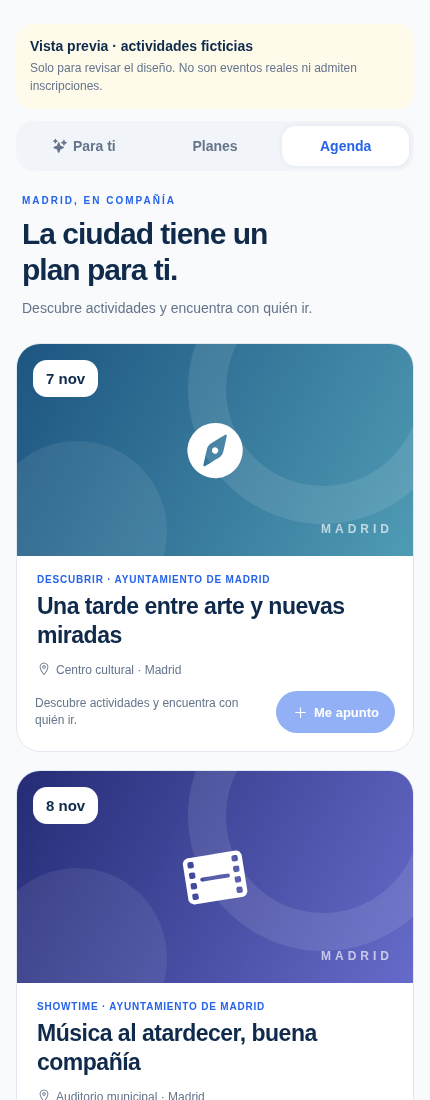
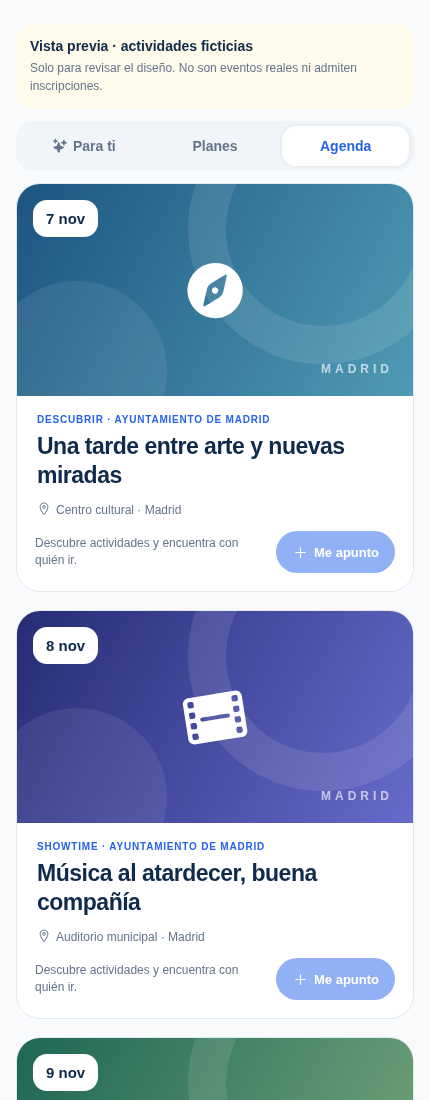
Remove introductory copy before feed cards

diff --git a/app/(tabs)/index.tsx b/app/(tabs)/index.tsx
@@ -162,7 +162,7 @@ import { useDelayedVisible } from '../../lib/useDelayedVisible';
 import { prefetchUserProfile, seedUserProfilePeek } from '../../lib/userProfileCache';
 import { prefetchPairAffinity } from '../../lib/pairAffinityCache';
 import { theme } from '../../theme';
-import { EventCard, EventTabs, AgendaIntro } from '../../features/events/EventCards';
+import { EventCard, EventTabs } from '../../features/events/EventCards';
 import { useEvents } from '../../features/events/useEvents';
 import { rankExternalEvents, interleaveSocialRows } from '../../features/events/ranking';
 import type { EventSection, ExternalEvent, EventFilters } from '../../features/events/types';
@@ -1918,7 +1918,6 @@ export default function HomeScreen() {
                     drawDistance={FLASH_LIST_DRAW_DISTANCE}
                     ListHeaderComponent={
                         <View style={styles.feedChromeHeader}>
-                            {eventSection==='agenda'&&<AgendaIntro/>}
                             {eventSection!=='plans'&&external.error&&<Pressable onPress={()=>void external.refresh()} style={{padding:16}} accessibilityRole="button"><Text style={{color:colors.textMuted}}>{t('events.unavailable')} · {t('events.retry')}</Text></Pressable>}
                             <View style={styles.quickFiltersRow}>
                                 <PressScale

diff --git a/features/events/EventCards.tsx b/features/events/EventCards.tsx
@@ -229,23 +229,6 @@ export function EventTabs({
     </View>
   );
 }
-export function AgendaIntro() {
-  const { t } = useT();
-  const { colors } = useAppTheme();
-  return (
-    <View style={s.intro}>
-      <Text style={[s.eyebrow, { color: colors.primary }]}>
-        {t("events.eyebrow")}
-      </Text>
-      <Text style={[s.headline, { color: colors.text }]}>
-        {t("events.headline")}
-      </Text>
-      <Text style={[s.subtitle, { color: colors.textMuted }]}>
-        {t("events.subtitle")}
-      </Text>
-    </View>
-  );
-}
 export const eventStyles = safeStyles();
 function safeStyles() {
   return StyleSheet.create({

diff --git a/preview/events/index.tsx b/preview/events/index.tsx
@@ -8,7 +8,6 @@ import { useAppTheme } from "../../lib/appTheme";
 import {
   EventCard,
   EventTabs,
-  AgendaIntro,
 } from "../../features/events/EventCards";
 import { previewEvents } from "../../features/events/previewData";
 import type { EventSection } from "../../features/events/types";
@@ -50,7 +49,6 @@ function Design() {
           </Text>
         </View>
         <EventTabs value={section} onChange={setSection} />
-        {section === "agenda" && <AgendaIntro />}
         {section === "plans" && (
           <Text style={{ padding: 24, color: colors.textMuted }}>
             {t("events.viewPlans")} · {t("events.preview")}

diff --git a/app/agenda-preview.tsx b/app/agenda-preview.tsx
@@ -5,7 +5,6 @@ import { useRouter } from "expo-router";
 import { useAppTheme } from "../lib/appTheme";
 import { useT } from "../lib/i18n";
 import {
-  AgendaIntro,
   EventCard,
   EventTabs,
 } from "../features/events/EventCards";
@@ -79,7 +78,6 @@ export default function AgendaPreview() {
           </Text>
         </View>
         <EventTabs value={section} onChange={setSection} />
-        {section === "agenda" && <AgendaIntro />}
         {section !== "agenda" && (
           <View pointerEvents="none">
             <PlanCard
